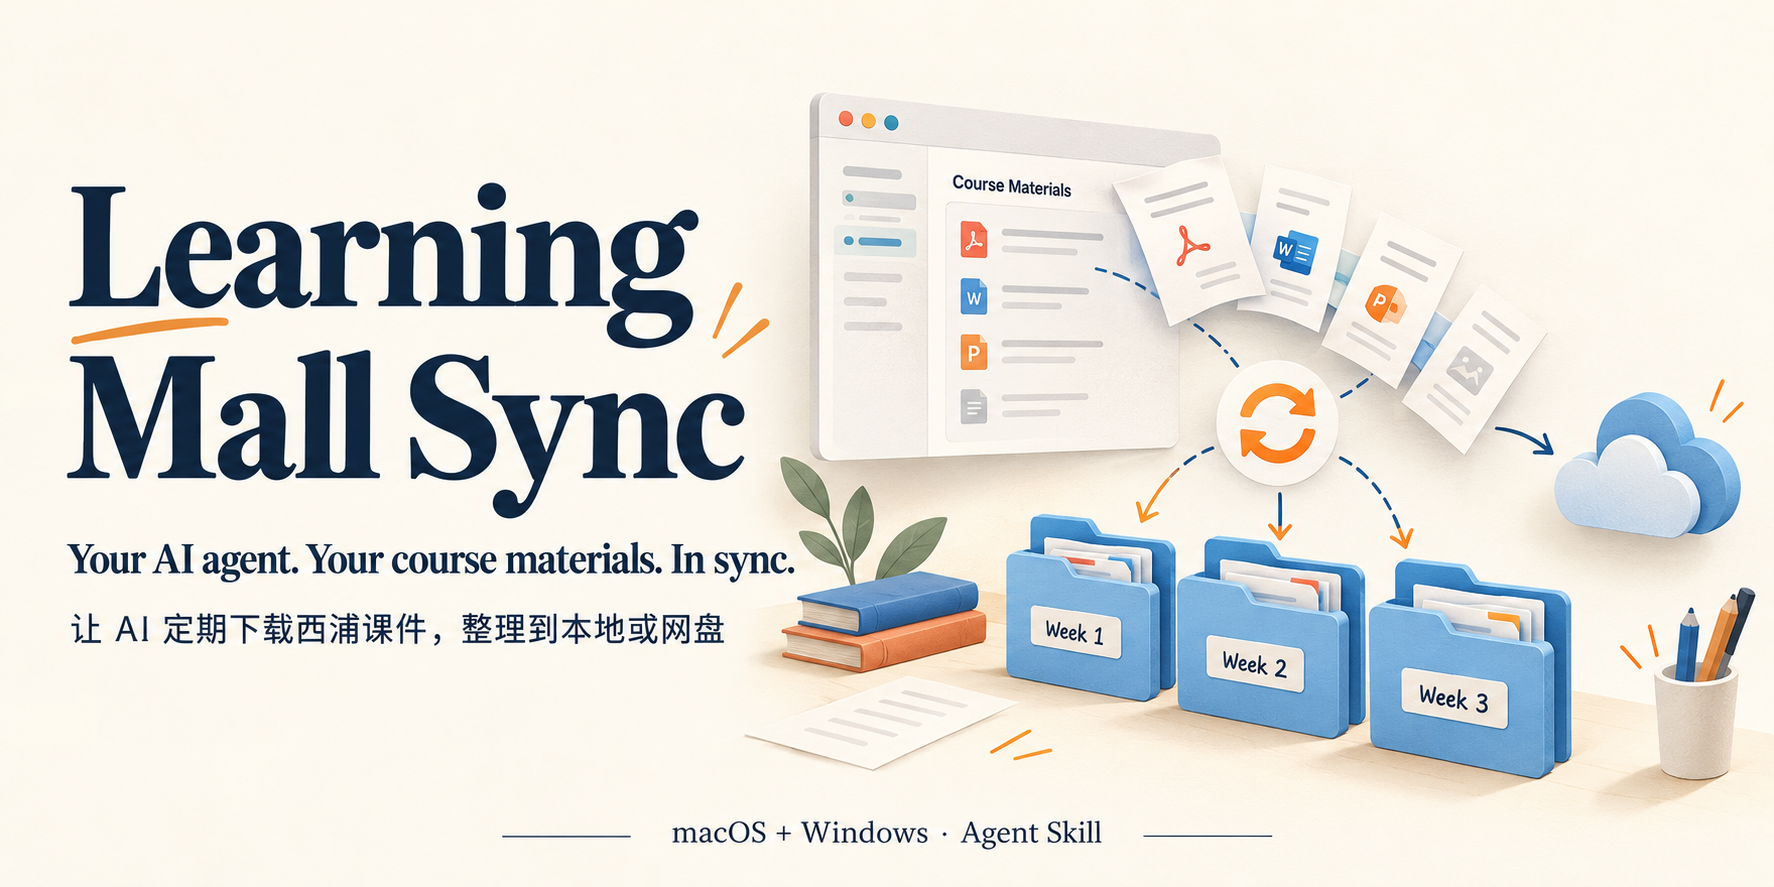
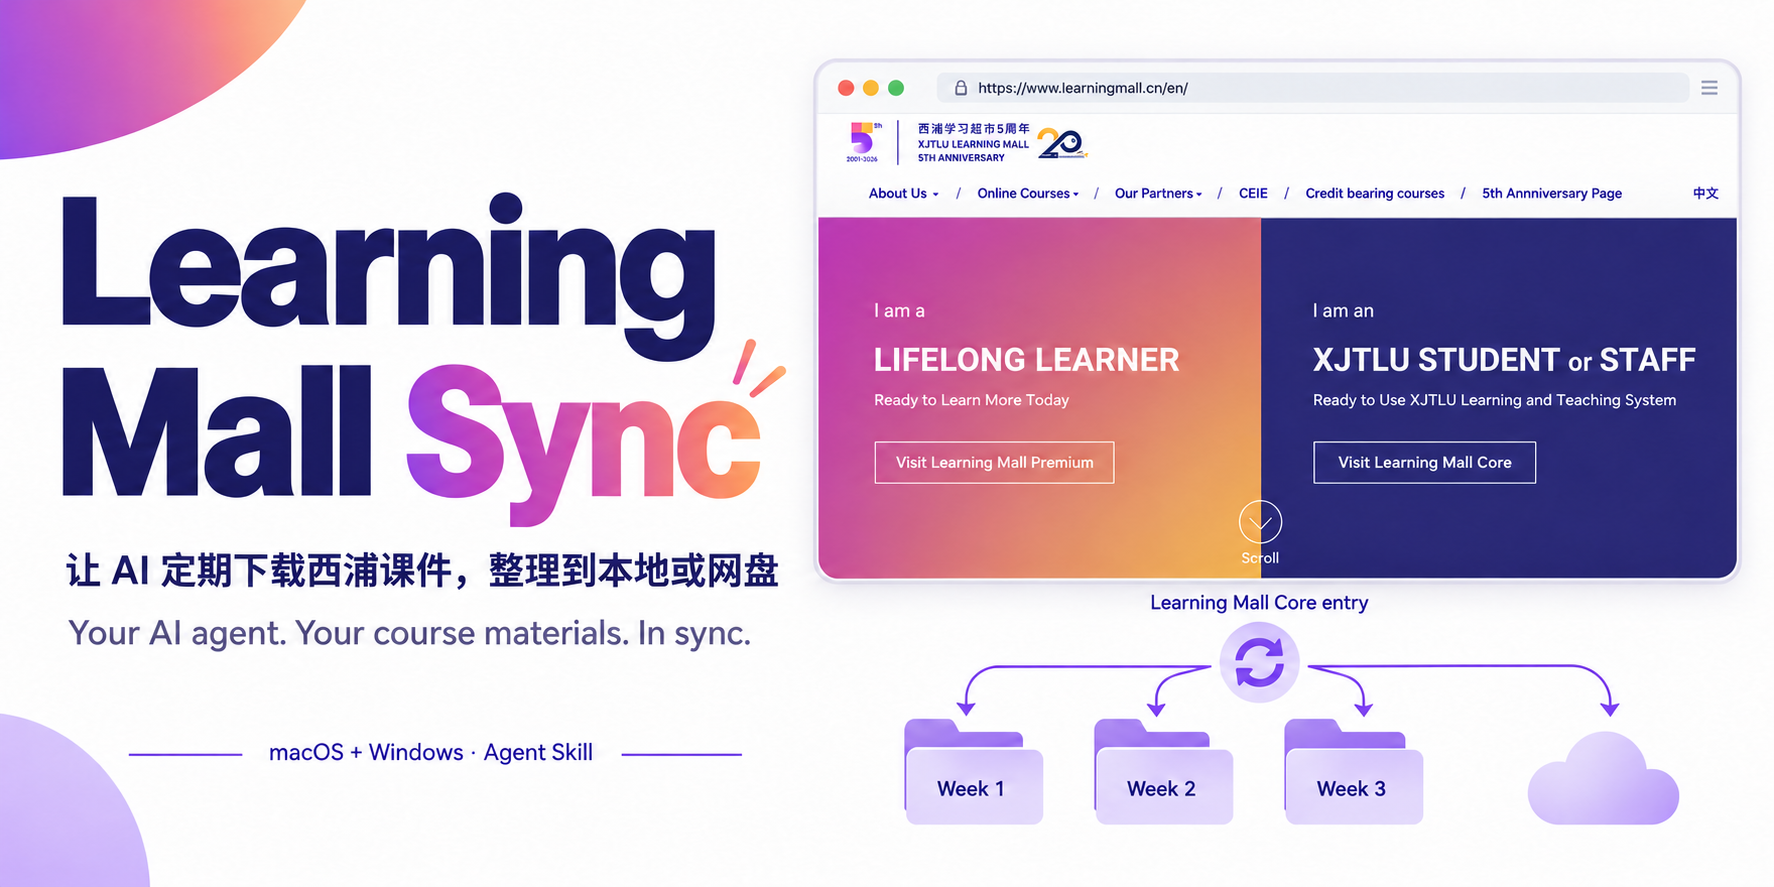
docs: align cover with Learning Mall colors and homepage

diff --git a/README.en.md b/README.en.md
@@ -4,6 +4,8 @@
 
 ![Learning Mall Sync — let your AI agent organize your course materials](assets/cover.png)
 
+The cover incorporates the [public Learning Mall homepage](https://www.learningmall.cn/en/). The page and university marks belong to XJTLU; this project is unofficial.
+
 **Let your AI agent automatically download XJTLU course materials on a schedule and organize them locally or in cloud storage.**
 
 Give this Skill to an AI agent such as WorkBuddy, Codex, or Muse. Choose your courses, save location, and sync schedule, then let it check Learning Mall for updates and organize your course materials. Your agent needs Skill support, browser control, and file access; scheduled sync also requires task scheduling. Setup varies by agent.

diff --git a/README.md b/README.md
@@ -4,6 +4,8 @@
 
 ![Learning Mall Sync：让 AI 定期下载西浦课件，整理到本地或网盘](assets/cover.png)
 
+封面中的页面来自 [Learning Mall 公开首页](https://www.learningmall.cn/en/)，页面与标识版权归西交利物浦大学所有，本项目非官方项目。
+
 **让你的 AI Agent 定期自动下载西浦课件，整理到本地或网盘。**
 
 **Let your AI agent automatically download XJTLU course materials on a schedule and organize them locally or in cloud storage.**
